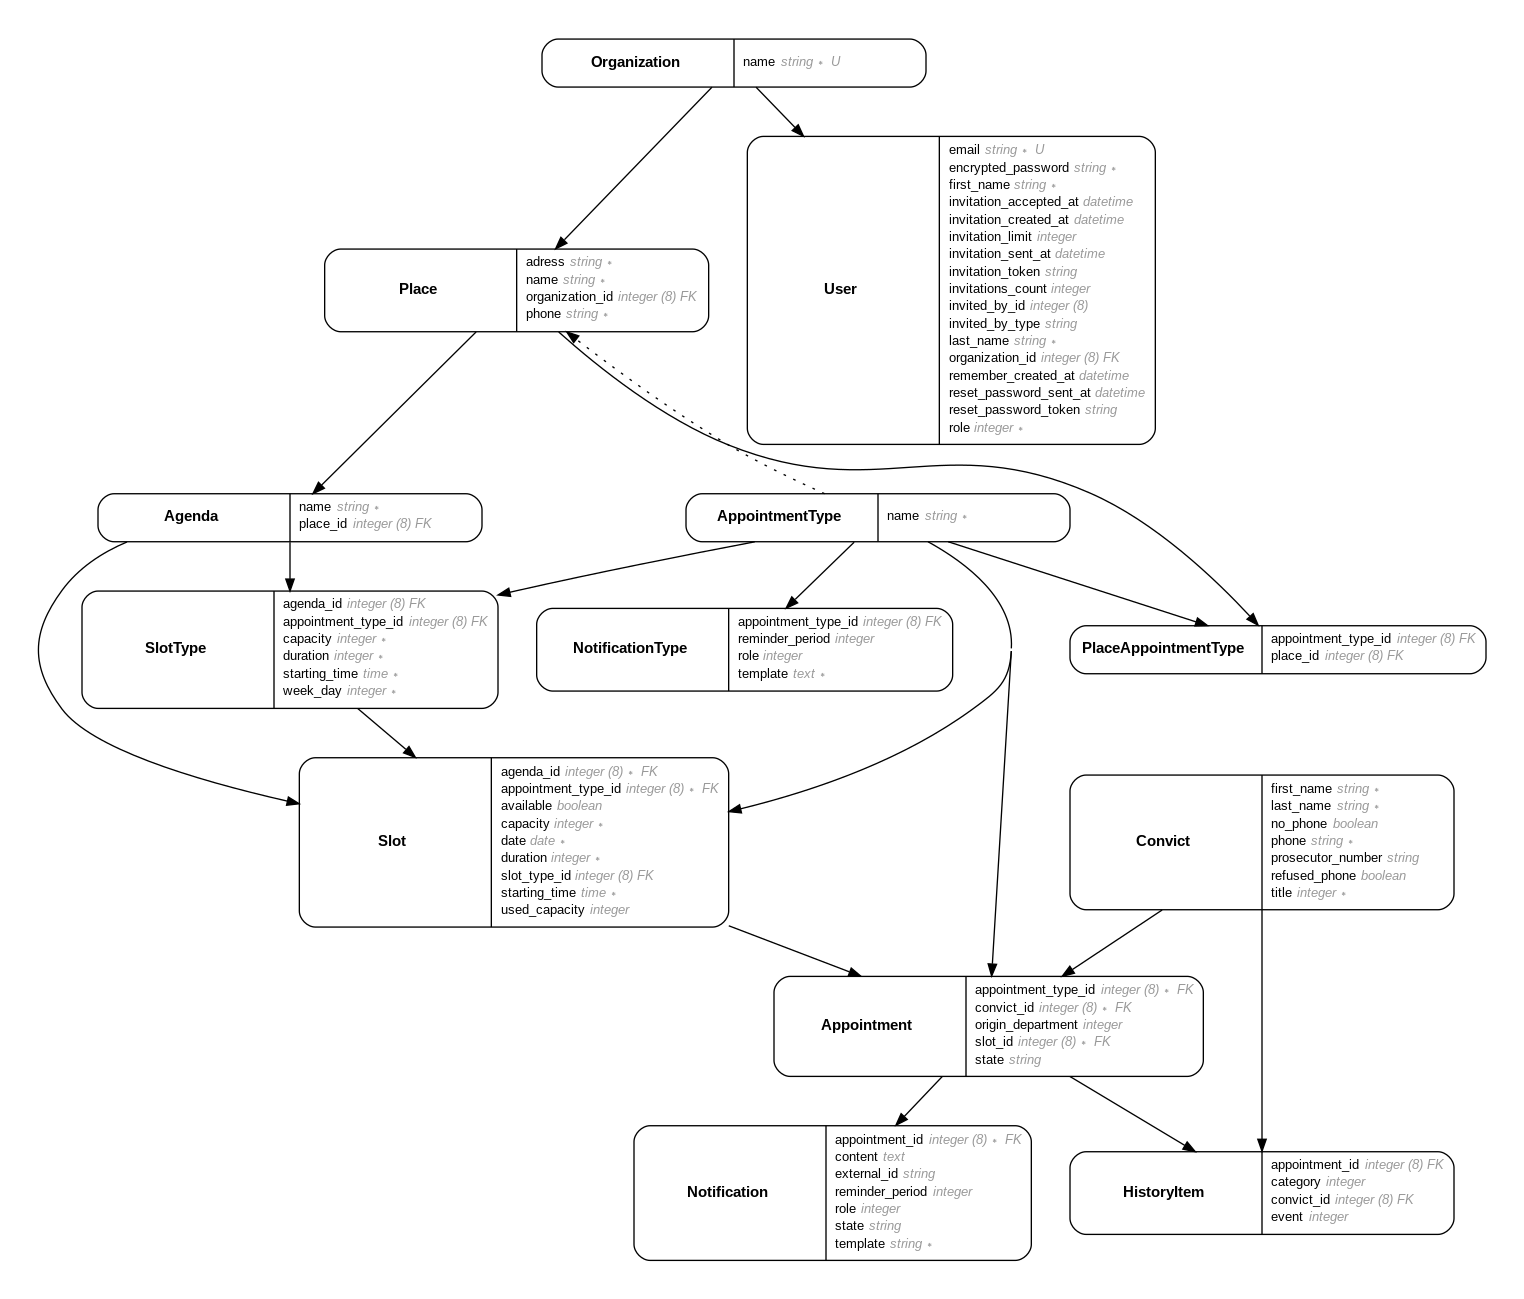
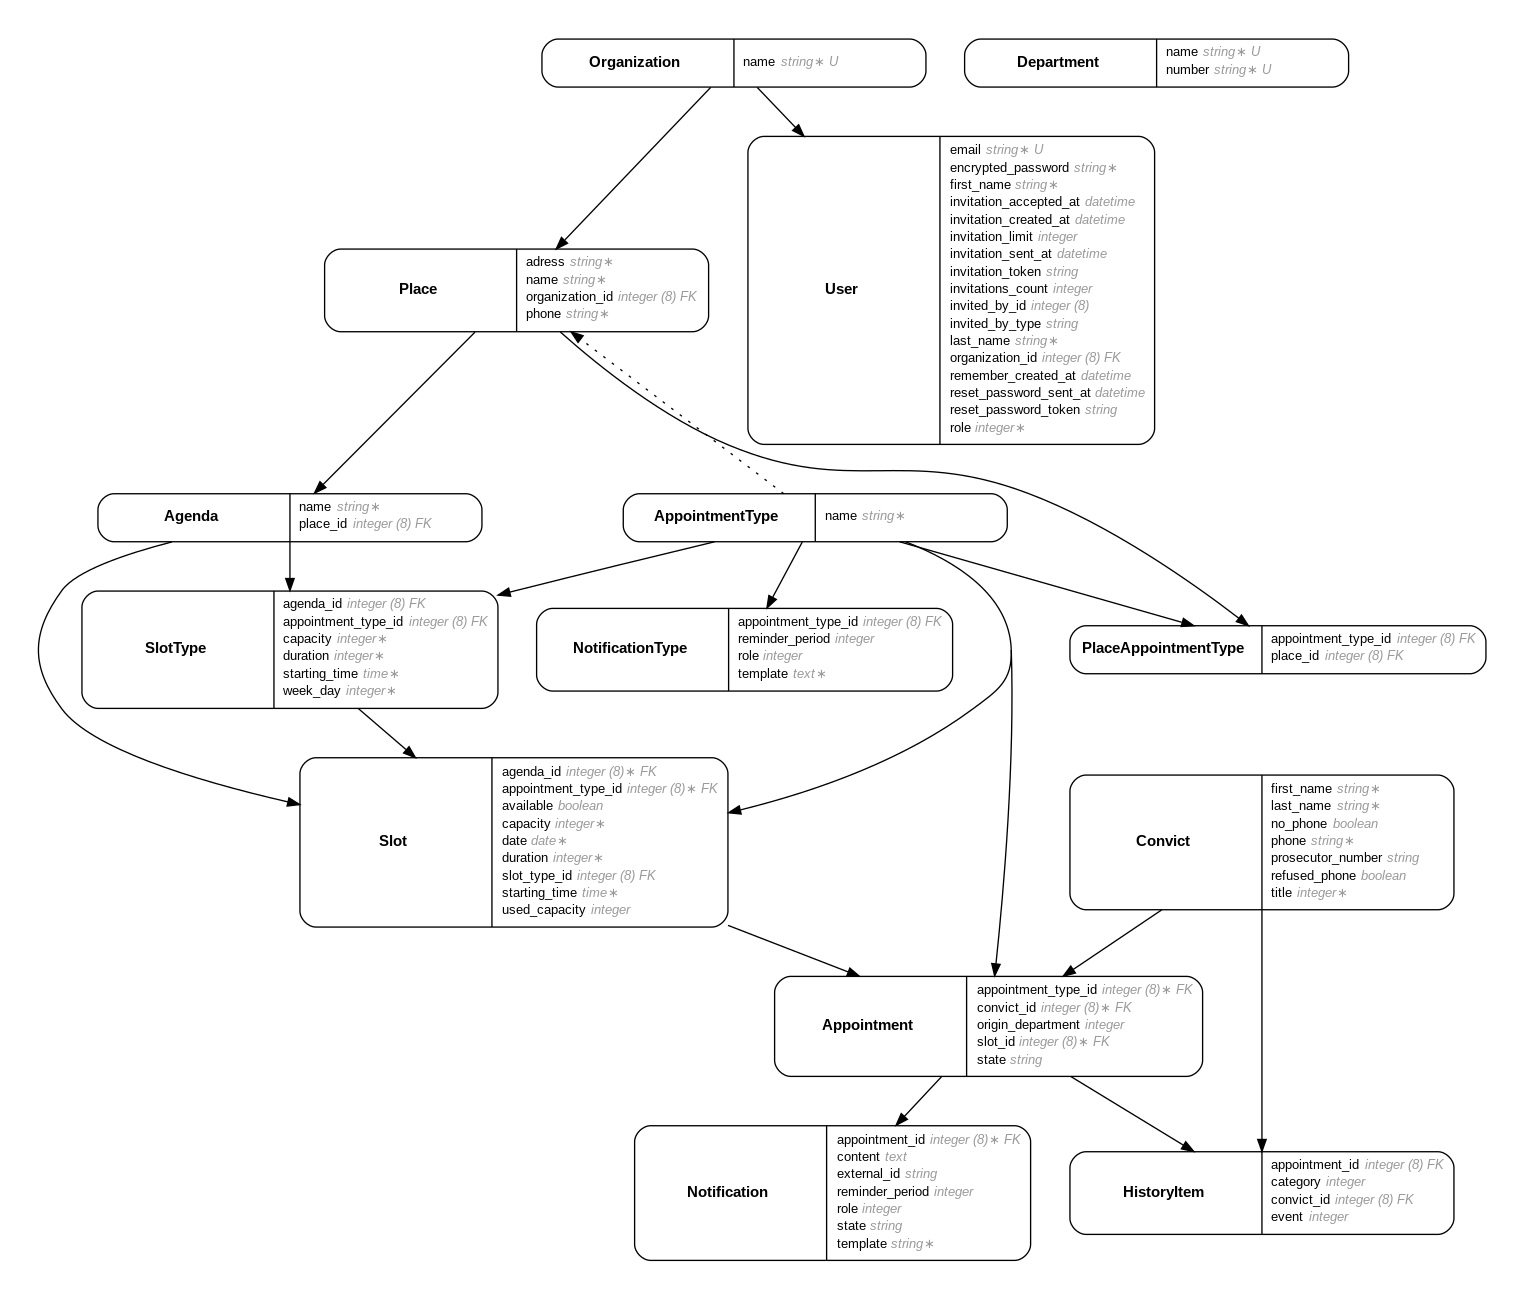
departement modeling

diff --git a/app/models/department.rb b/app/models/department.rb
@@ -1,0 +1,112 @@
+class Department < ApplicationRecord
+  SUPPORTED = [
+    OpenStruct.new(number: '01', name: 'Ain'),
+    OpenStruct.new(number: '02', name: 'Aisne'),
+    OpenStruct.new(number: '03', name: 'Allier'),
+    OpenStruct.new(number: '04', name: 'Alpes-de-Haute-Provence'),
+    OpenStruct.new(number: '05', name: 'Hautes-Alpes'),
+    OpenStruct.new(number: '06', name: 'Alpes-Maritimes'),
+    OpenStruct.new(number: '07', name: 'Ardèche'),
+    OpenStruct.new(number: '08', name: 'Ardennes'),
+    OpenStruct.new(number: '09', name: 'Ariège'),
+    OpenStruct.new(number: '10', name: 'Aube'),
+    OpenStruct.new(number: '11', name: 'Aude'),
+    OpenStruct.new(number: '12', name: 'Aveyron'),
+    OpenStruct.new(number: '13', name: 'Bouches-du-Rhône'),
+    OpenStruct.new(number: '14', name: 'Calvados'),
+    OpenStruct.new(number: '15', name: 'Cantal'),
+    OpenStruct.new(number: '16', name: 'Charente'),
+    OpenStruct.new(number: '17', name: 'Charente-Maritime'),
+    OpenStruct.new(number: '18', name: 'Cher'),
+    OpenStruct.new(number: '19', name: 'Corrèze'),
+    OpenStruct.new(number: '21', name: "Côte-d'Or"),
+    OpenStruct.new(number: '22', name: "Côtes-d'Armor"),
+    OpenStruct.new(number: '23', name: 'Creuse'),
+    OpenStruct.new(number: '24', name: 'Dordogne'),
+    OpenStruct.new(number: '25', name: 'Doubs'),
+    OpenStruct.new(number: '26', name: 'Drôme'),
+    OpenStruct.new(number: '27', name: 'Eure'),
+    OpenStruct.new(number: '28', name: 'Eure-et-Loir'),
+    OpenStruct.new(number: '29', name: 'Finistère'),
+    OpenStruct.new(number: '2A', name: 'Corse-du-Sud'),
+    OpenStruct.new(number: '2B', name: 'Haute-Corse'),
+    OpenStruct.new(number: '30', name: 'Gard'),
+    OpenStruct.new(number: '31', name: 'Haute-Garonne'),
+    OpenStruct.new(number: '32', name: 'Gers'),
+    OpenStruct.new(number: '33', name: 'Gironde'),
+    OpenStruct.new(number: '34', name: 'Hérault'),
+    OpenStruct.new(number: '35', name: 'Ille-et-Vilaine'),
+    OpenStruct.new(number: '36', name: 'Indre'),
+    OpenStruct.new(number: '37', name: 'Indre-et-Loire'),
+    OpenStruct.new(number: '38', name: 'Isère'),
+    OpenStruct.new(number: '39', name: 'Jura'),
+    OpenStruct.new(number: '40', name: 'Landes'),
+    OpenStruct.new(number: '41', name: 'Loir-et-Cher'),
+    OpenStruct.new(number: '42', name: 'Loire'),
+    OpenStruct.new(number: '43', name: 'Haute-Loire'),
+    OpenStruct.new(number: '44', name: 'Loire-Atlantique'),
+    OpenStruct.new(number: '45', name: 'Loiret'),
+    OpenStruct.new(number: '46', name: 'Lot'),
+    OpenStruct.new(number: '47', name: 'Lot-et-Garonne'),
+    OpenStruct.new(number: '48', name: 'Lozère'),
+    OpenStruct.new(number: '49', name: 'Maine-et-Loire'),
+    OpenStruct.new(number: '50', name: 'Manche'),
+    OpenStruct.new(number: '51', name: 'Marne'),
+    OpenStruct.new(number: '52', name: 'Haute-Marne'),
+    OpenStruct.new(number: '53', name: 'Mayenne'),
+    OpenStruct.new(number: '54', name: 'Meurthe-et-Moselle'),
+    OpenStruct.new(number: '55', name: 'Meuse'),
+    OpenStruct.new(number: '56', name: 'Morbihan'),
+    OpenStruct.new(number: '57', name: 'Moselle'),
+    OpenStruct.new(number: '58', name: 'Nièvre'),
+    OpenStruct.new(number: '59', name: 'Nord'),
+    OpenStruct.new(number: '60', name: 'Oise'),
+    OpenStruct.new(number: '61', name: 'Orne'),
+    OpenStruct.new(number: '62', name: 'Pas-de-Calais'),
+    OpenStruct.new(number: '63', name: 'Puy-de-Dôme'),
+    OpenStruct.new(number: '64', name: 'Pyrénées-Atlantiques'),
+    OpenStruct.new(number: '65', name: 'Hautes-Pyrénées'),
+    OpenStruct.new(number: '66', name: 'Pyrénées-Orientales'),
+    OpenStruct.new(number: '67', name: 'Bas-Rhin'),
+    OpenStruct.new(number: '68', name: 'Haut-Rhin'),
+    OpenStruct.new(number: '69', name: 'Rhône'),
+    OpenStruct.new(number: '70', name: 'Haute-Saône'),
+    OpenStruct.new(number: '71', name: 'Saône-et-Loire'),
+    OpenStruct.new(number: '72', name: 'Sarthe'),
+    OpenStruct.new(number: '73', name: 'Savoie'),
+    OpenStruct.new(number: '74', name: 'Haute-Savoie'),
+    OpenStruct.new(number: '75', name: 'Paris'),
+    OpenStruct.new(number: '76', name: 'Seine-Maritime'),
+    OpenStruct.new(number: '77', name: 'Seine-et-Marne'),
+    OpenStruct.new(number: '78', name: 'Yvelines'),
+    OpenStruct.new(number: '79', name: 'Deux-Sèvres'),
+    OpenStruct.new(number: '80', name: 'Somme'),
+    OpenStruct.new(number: '81', name: 'Tarn'),
+    OpenStruct.new(number: '82', name: 'Tarn-et-Garonne'),
+    OpenStruct.new(number: '83', name: 'Var'),
+    OpenStruct.new(number: '84', name: 'Vaucluse'),
+    OpenStruct.new(number: '85', name: 'Vendée'),
+    OpenStruct.new(number: '86', name: 'Vienne'),
+    OpenStruct.new(number: '87', name: 'Haute-Vienne'),
+    OpenStruct.new(number: '88', name: 'Vosges'),
+    OpenStruct.new(number: '89', name: 'Yonne'),
+    OpenStruct.new(number: '90', name: 'Territoire de Belfort'),
+    OpenStruct.new(number: '91', name: 'Essonne'),
+    OpenStruct.new(number: '92', name: 'Hauts-de-Seine'),
+    OpenStruct.new(number: '93', name: 'Seine-Saint-Denis'),
+    OpenStruct.new(number: '94', name: 'Val-de-Marne'),
+    OpenStruct.new(number: '95', name: "Val-d'Oise"),
+    OpenStruct.new(number: '971', name: 'Guadeloupe'),
+    OpenStruct.new(number: '972', name: 'Martinique'),
+    OpenStruct.new(number: '973', name: 'Guyane'),
+    OpenStruct.new(number: '974', name: 'La Réunion'),
+    OpenStruct.new(number: '976', name: 'Mayotte')
+  ]
+
+  validates :name, uniqueness: true, presence: true, inclusion:   {in: SUPPORTED.map(&:name) }
+  validates :number, uniqueness: true, presence: true, inclusion: {in: SUPPORTED.map(&:number) }
+
+  def self.seed_all_departments
+    SUPPORTED.each { |department| Department.find_or_create_by name: department.name, number: department.number }
+  end
+end

diff --git a/db/schema.rb b/db/schema.rb
@@ -10,7 +10,7 @@
 #
 # It's strongly recommended that you check this file into your version control system.
 
-ActiveRecord::Schema.define(version: 2021_09_29_065916) do
+ActiveRecord::Schema.define(version: 2021_10_07_115854) do
 
   # These are extensions that must be enabled in order to support this database
   enable_extension "plpgsql"
@@ -52,6 +52,15 @@ ActiveRecord::Schema.define(version: 2021_09_29_065916) do
     t.boolean "no_phone"
     t.boolean "refused_phone"
     t.string "prosecutor_number"
+  end
+
+  create_table "departments", force: :cascade do |t|
+    t.string "number", null: false
+    t.string "name", null: false
+    t.datetime "created_at", precision: 6, null: false
+    t.datetime "updated_at", precision: 6, null: false
+    t.index ["name"], name: "index_departments_on_name", unique: true
+    t.index ["number"], name: "index_departments_on_number", unique: true
   end
 
   create_table "history_items", force: :cascade do |t|

diff --git a/spec/models/department_spec.rb b/spec/models/department_spec.rb
@@ -1,0 +1,16 @@
+require 'rails_helper'
+
+RSpec.describe Department, type: :model do
+  it { should validate_presence_of(:name) }
+  it { should validate_presence_of(:number) }
+  it { expect(build(:department)).to validate_uniqueness_of(:name) }
+  it { expect(build(:department)).to validate_uniqueness_of(:number) }
+  it { should validate_inclusion_of(:number).in_array(Department::SUPPORTED.map(&:number)) }
+  it { should validate_inclusion_of(:name).in_array(Department::SUPPORTED.map(&:name)) }
+
+  describe '.seed_all_departments' do
+    it 'creates 101 departement' do
+      expect{Department.seed_all_departments}.to change(Department, :count).from(0).to(101)
+    end
+  end
+end

diff --git a/db/migrate/20211007115854_create_department.rb b/db/migrate/20211007115854_create_department.rb
@@ -1,9 +1,9 @@
 class CreateDepartment < ActiveRecord::Migration[6.1]
   def change
     create_table :departments do |t|
-      t.string :number, unique: true, null: false
-      t.string :name, unique: true, null: false
-      
+      t.string :number, index: {unique: true}, null: false
+      t.string :name, index: {unique: true}, null: false
+
       t.timestamps
     end
   end

diff --git a/spec/factories/department.rb b/spec/factories/department.rb
@@ -1,0 +1,6 @@
+FactoryBot.define do
+  factory :department do
+    name { 'Haute-Corse' }
+    number { '2B' }
+  end
+end
